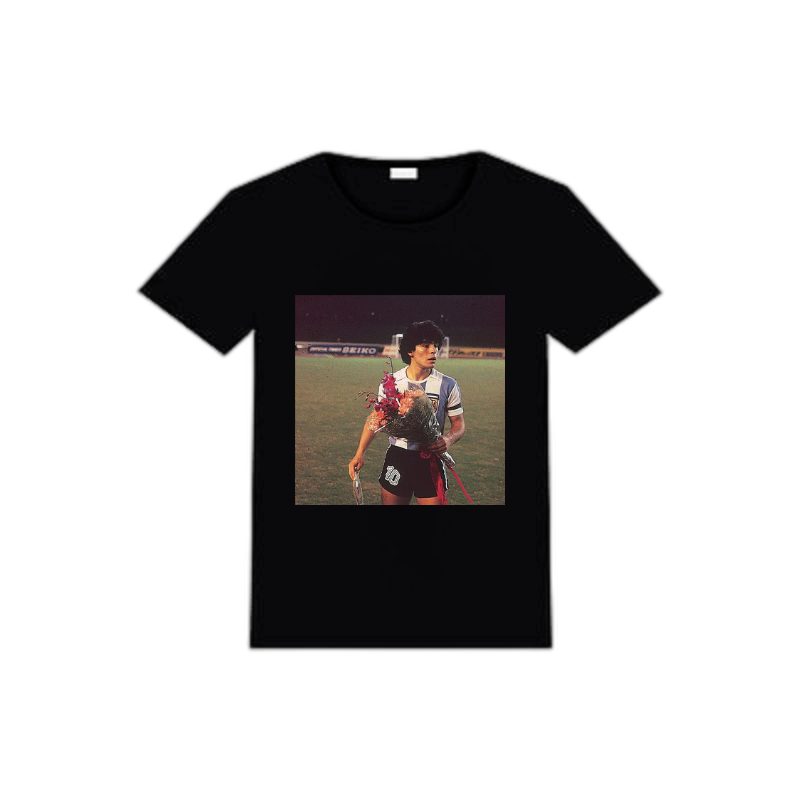
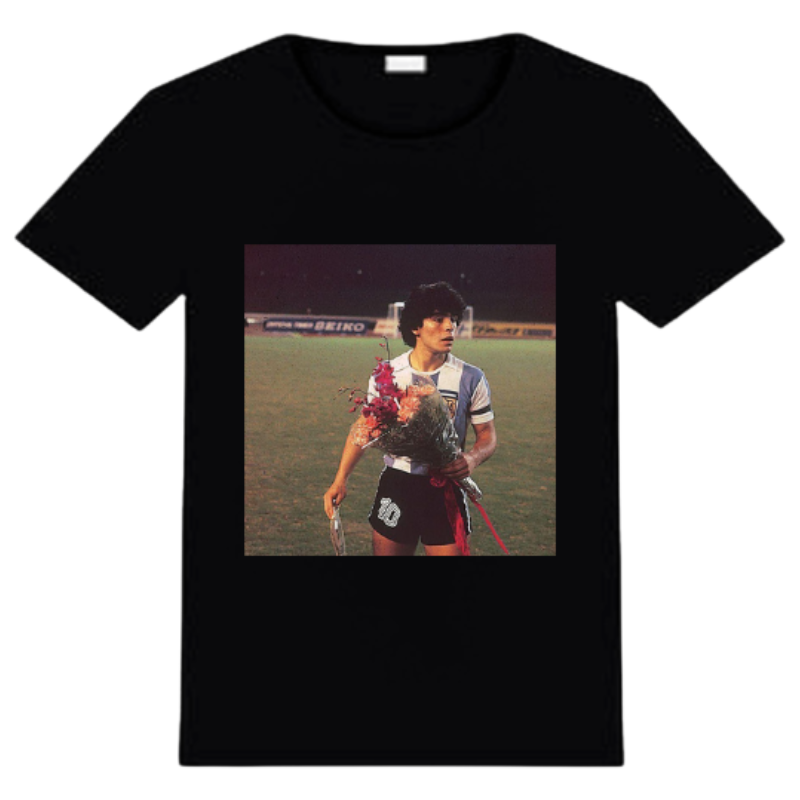
Avances

diff --git a/merch.html b/merch.html
@@ -1,11 +1,13 @@
 <!DOCTYPE html>
 <html lang="es">
+
 <head>
     <meta charset="UTF-8">
     <link rel="stylesheet" href="style.css">
     <link rel="icon" href="Imagenes/DiegoFavicon.svg">
     <title>Maradona Merch - Productos</title>
 </head>
+
 <body>
     <div class="menu">
         <ul>
@@ -24,22 +26,104 @@
 
     <div class="divMerch">
         <div class="merchItem">
-            <img src="Imagenes/RemeraDiego1.png" alt="">
+            <img src="Imagenes/RemeraDiego1.png">
+            <div class="merchInfo">
+                <div class="precio">$10.000</div>
+                <div class="talle">
+                    <select name="talle" class="selecTalle">
+                        <option>Elegí talle</option>
+                        <option value="XS">XS</option>
+                        <option value="S">S</option>
+                        <option value="M">M</option>
+                        <option value="L">L</option>
+                        <option value="XL">XL</option>
+                    </select></div>
+                <button class="carrito">🛒 Agregar</button>
+            </div>
         </div>
         <div class="merchItem">
-            <img src="Imagenes/RemeraDiego2.png" alt="">
+            <img src="Imagenes/RemeraDiego2.png">
+            <div class="merchInfo">
+                <div class="precio">$10.000</div>
+                <div class="talle">
+                    <select name="talle" class="selecTalle">
+                        <option>Elegí talle</option>
+                        <option value="XS">XS</option>
+                        <option value="S">S</option>
+                        <option value="M">M</option>
+                        <option value="L">L</option>
+                        <option value="XL">XL</option>
+                    </select>
+                </div>
+                <button class="carrito">🛒 Agregar</button>
+            </div>
         </div>
         <div class="merchItem">
-            <img src="Imagenes/RemeraDiego3.png" alt="">
+            <img src="Imagenes/RemeraDiego3.png">
+            <div class="merchInfo">
+                <div class="precio">$10.000</div>
+                <div class="talle">
+                    <select name="talle" class="selecTalle">
+                        <option>Elegí talle</option>
+                        <option value="XS">XS</option>
+                        <option value="S">S</option>
+                        <option value="M">M</option>
+                        <option value="L">L</option>
+                        <option value="XL">XL</option>
+                    </select></div>
+                <button class="carrito">🛒 Agregar</button>
+            </div>
         </div>
         <div class="merchItem">
-            <img src="Imagenes/RemeraDiego4.png" alt="">
+            <img src="Imagenes/RemeraDiego4.png">
+            <div class="merchInfo">
+                <div class="precio">$10.000</div>
+                <div class="talle">
+                    <select name="talle" class="selecTalle">
+                        <option>Elegí talle</option>
+                        <option value="XS">XS</option>
+                        <option value="S">S</option>
+                        <option value="M">M</option>
+                        <option value="L">L</option>
+                        <option value="XL">XL</option>
+                    </select>
+                </div>
+                <button class="carrito">🛒 Agregar</button>
+            </div>
         </div>
         <div class="merchItem">
-            <img src="Imagenes/RemeraDiego5.png" alt="">
+            <img src="Imagenes/RemeraDiego5.png">
+            <div class="merchInfo">
+                <div class="precio">$10.000</div>
+                <div class="talle">
+                    <select name="talle" class="selecTalle">
+                        <option>Elegí talle</option>
+                        <option value="XS">XS</option>
+                        <option value="S">S</option>
+                        <option value="M">M</option>
+                        <option value="L">L</option>
+                        <option value="XL">XL</option>
+                    </select>
+                </div>
+                <button class="carrito">🛒 Agregar</button>
+            </div>
         </div>
         <div class="merchItem">
-            <img src="Imagenes/RemeraDiego6.png" alt="">
+            <img src="Imagenes/RemeraDiego6.png">
+            <div class="merchInfo">
+                <div class="precio">$10.000</div>
+                <div class="talle">
+                    <select name="talle" class="selecTalle">
+                        <option>Elegí talle</option>
+                        <option value="XS">XS</option>
+                        <option value="S">S</option>
+                        <option value="M">M</option>
+                        <option value="L">L</option>
+                        <option value="XL">XL</option>
+                    </select>
+                </div>
+                <button class="carrito">🛒 Agregar</button>
+            </div>
         </div>
     </div>
 
@@ -49,6 +133,7 @@
             © 2025 - <b>Juan Cruz Rodriguez</b> y <b>Facundo Lopez Cozzella</b>
         </p>
     </div>
-    
+
 </body>
+
 </html>

diff --git a/style.css b/style.css
@@ -73,11 +73,10 @@
 }
 
 body {
-    margin: 0; /* esto lo tuve que agregar para arreglar ese pequeño espacio
-    que se generaba en el lado izquierdo del menú superior */
+    margin: 0;
     margin-top: 60px;
     text-align: center;
-    background-image: linear-gradient(rgba(0, 0, 0, 0.65), rgba(0, 0, 0, 0.65)),
+    background-image: linear-gradient(rgba(0, 0, 0, 0.75), rgba(0, 0, 0, 0.75)),
     url(https://media2.giphy.com/media/v1.Y2lkPTc5MGI3NjExN3N4ZnJmcWN3dHp3eWdvY3g4dDhhZDRpMTE5YTVpN2lhemZqdmQ5dCZlcD12MV9pbnRlcm5hbF9naWZfYnlfaWQmY3Q9Zw/dBCWoIHo1hT5Sdtqbn/giphy.gif);
     background-size: cover;
     background-repeat: repeat;
@@ -86,12 +85,13 @@ body {
 }
 
 .formulario {
-    background-color: rgba(60, 155, 233, 0.75);
-    border: 2px solid white;
+    background-color: rgba(60, 155, 233);
+    border: 2px solid rgb(255, 255, 255);
     width: 250px;
     padding: 20px;
     border-radius: 5px;
     text-align: left;
+    box-shadow: 0px 0px 10px rgb(255, 255, 255, 0.5);
 }
 
 .divForms {
@@ -210,12 +210,12 @@ textarea {
     background-color: rgba(60, 155, 233, 0.75);
     border-radius: 10px;
     padding: 3px;
+    box-shadow: 0px 0px 10px white;
 }
 
 #carruselImg {
     height: 600px;
-    max-width: 400px;
-    object-fit: contain;
+    width: 400px;
     border-radius: 5px;
     margin: 10px;
 }
@@ -273,25 +273,75 @@ textarea {
 }
 
 .divMerch {
-    width: 80%;
-    margin: 50px auto -35px auto;
-    display: flex;
+    margin: 50px auto;
+    display: grid;
+    grid-template-columns: repeat(auto-fit, minmax(250px, 1fr));
+    max-width: 1000px;
     flex-wrap: wrap;
     justify-content: center;
-    gap: 30px;
+    gap: 20px;
 }
 
 .merchItem {
-    width: 300px;
-    background-color: rgb(255, 255, 255, 0.05);
+    
+    background-color: rgba(59, 59, 59, 0.2);
     border: 1px solid rgb(255, 255, 255, 0.2);
     border-radius: 10px;
-    padding: 10px;
+    padding: 8px;
     box-sizing: border-box;
+    text-align: center;
+    box-shadow: 0px 0px 10px rgb(0, 0, 0);
 }
 
 .merchItem img {
     width: 100%;
-    height: 100%;
+    height: auto;
     border-radius: 5px;
+    object-fit: contain;
+}
+
+.merchItem img:hover{
+    transform:scale(1.2);
+}
+
+.merchInfo {
+    display: flex;
+    justify-content: space-between;
+    align-items: center;
+    background-color: rgba(255, 255, 255, 0.15);
+    border-top: 1px solid rgba(255, 255, 255, 0.2);
+    margin-top: 5px;
+    padding: 8px;
+    border-radius: 5px;
+    color: white;
+    font-family: 'Poppins', sans-serif;
+    font-size: 15px;
+    box-shadow: 0px 0px 15px black;
+}
+
+.carrito {
+    background-color: #0d64ac;
+    border: none;
+    color: rgb(255, 255, 255);
+    padding: 6px;
+    border-radius: 5px;
+    font-size: 14px;
+    cursor: pointer;
+}
+
+.carrito:hover {
+    background-color: rgba(255, 255, 255, 0.95);
+    border-color: rgba(60, 155, 233);
+    color: rgba(60, 155, 233);
+}
+
+
+.selecTalle{
+    color: white;
+    background-color: #0d64ac;
+    border-radius: 5px;
+    width: 85px;
+    height: 32px;
+    font-size: 13.5px;
+    cursor: pointer;
 }

diff --git a/formulario.js b/formulario.js
@@ -18,7 +18,7 @@ document.addEventListener("DOMContentLoaded", function() {
     const validacionMail = /^[A-Za-z0-9_.-]+@[A-Za-z0-9-]+\.[A-Za-z]{2,}$/;
     const validacionTel = /^\+?[\d\s]{6,15}$/;
 
-    form.addEventListener("submit", function(event) {
+    form.addEventListener("submit", function(event){
 
         event.preventDefault();
 
@@ -31,7 +31,7 @@ document.addEventListener("DOMContentLoaded", function() {
 
             msjExito.style.display = "block";
 
-            setTimeout(() => {
+            setTimeout(() =>{
                 botonReset.click();
             }, 5000);
         }
@@ -39,20 +39,18 @@ document.addEventListener("DOMContentLoaded", function() {
     });
 
     botonReset.addEventListener("click", function(event) {
-
         msjExito.style.display = "none";
-
     });
 
     function validarNombre() {
 
-        if (nombre.value === "") {
+        if(nombre.value === ""){
             msjAlertaNombre.innerHTML = "Este campo es obligatorio!<br>";
             return false;
-        } else if (!validacionNyA.test(nombre.value)) {
+        }else if(!validacionNyA.test(nombre.value)){
             msjAlertaNombre.innerHTML = "El formato del nombre no es válido.<br>";
             return false;
-        } else {
+        }else{
             msjAlertaNombre.innerHTML = "";
             return true;
         }
@@ -61,13 +59,13 @@ document.addEventListener("DOMContentLoaded", function() {
 
     function validarApellido() {
 
-        if (apellido.value === "") {
+        if(apellido.value === ""){
             msjAlertaApellido.innerHTML = "Este campo es obligatorio!<br>";
             return false;
-        } else if (!validacionNyA.test(apellido.value)) {
+        }else if(!validacionNyA.test(apellido.value)) {
             msjAlertaApellido.innerHTML = "El formato del apellido no es válido.<br>";
             return false;
-        } else {
+        }else{
             msjAlertaApellido.innerHTML = "";
             return true;
         }

diff --git a/index.html b/index.html
@@ -18,7 +18,7 @@
 
     <div class="titulo">
         <h1>
-            <br><span id="letrasMayus">B</span>ienvenido a la tienda <br>
+            <br><span id="letrasMayus">B</span>ienvenido a la <span id="letrasMayus">T</span>ienda <br>
             <span id="letrasMayus">D</span>iego <span id="letrasMayus">A</span>rmando <span id="letrasMayus">M</span>aradona
         </h1>
     </div>

diff --git a/contactaConNostros.html b/contactaConNostros.html
@@ -18,7 +18,7 @@
 
     <div class="titulo">
         <h1>
-            <br><span id="letrasMayus">C</span>ompletá <span id="letrasMayus">e</span>l <span id="letrasMayus">f</span>ormulario
+            <br><span id="letrasMayus">C</span>ompletá el <span id="letrasMayus">f</span>ormulario
         </h1>
     </div>
 

diff --git a/quienesSomos.html b/quienesSomos.html
@@ -18,7 +18,7 @@
 
     <div class="titulo">
         <h1>
-            <br>¿<span id="letrasMayus">Q</span>uiénes <span id="letrasMayus">s</span>omos <span id="letrasMayus">n</span>osotros?
+            <br>¿<span id="letrasMayus">Q</span>uiénes <span id="letrasMayus">s</span>omos?
         </h1>
     </div>
 
